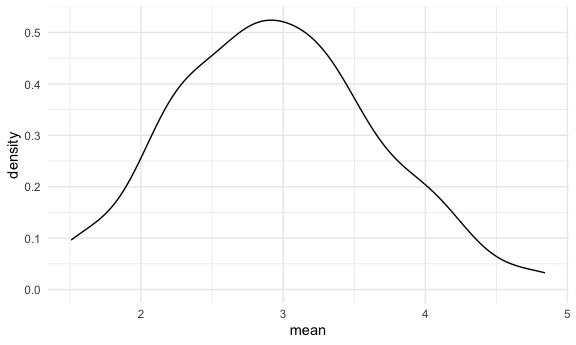
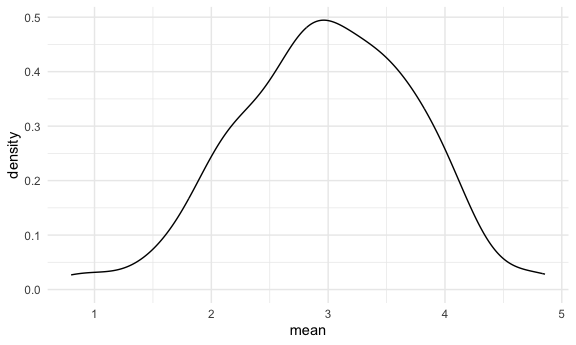
we did simulations!

diff --git a/simulation.md b/simulation.md
@@ -31,7 +31,7 @@ sim_mean_sd(30)
     ## # A tibble: 1 × 2
     ##    mean    sd
     ##   <dbl> <dbl>
-    ## 1  2.26  4.36
+    ## 1  3.33  3.70
 
 ## Let’s simulate a lot
 
@@ -52,16 +52,16 @@ bind_rows(output)
     ## # A tibble: 100 × 2
     ##     mean    sd
     ##    <dbl> <dbl>
-    ##  1  4.22  3.03
-    ##  2  2.56  3.73
-    ##  3  3.51  3.44
-    ##  4  4.01  4.31
-    ##  5  3.07  3.88
-    ##  6  2.41  3.87
-    ##  7  2.03  4.36
-    ##  8  3.53  4.34
-    ##  9  2.30  3.70
-    ## 10  1.79  3.90
+    ##  1  3.53  3.18
+    ##  2  3.44  3.84
+    ##  3  3.45  3.53
+    ##  4  1.68  3.69
+    ##  5  3.95  4.22
+    ##  6  3.27  4.34
+    ##  7  2.05  4.05
+    ##  8  3.10  3.72
+    ##  9  3.55  4.11
+    ## 10  3.87  3.79
     ## # ℹ 90 more rows
 
 Let’s use a loop function.
@@ -103,7 +103,7 @@ sim_results %>%
     ## # A tibble: 1 × 2
     ##   avg_samp_mean sd_samp_mean
     ##           <dbl>        <dbl>
-    ## 1          2.95        0.712
+    ## 1          2.98        0.756
 
 ``` r
 sim_results %>% 
@@ -111,3 +111,122 @@ sim_results %>%
 ```
 
 <img src="simulation_files/figure-gfm/unnamed-chunk-5-2.png" alt="" width="90%" />
+
+## Let’s try other sample sizes.
+
+``` r
+n_list = 
+  list(
+    "n = 30" = 30,
+    "n = 60" = 30,
+    "n = 120" = 30,
+    "n = 240" = 30
+  )
+
+output = vector("list", length = 4)
+
+output[[1]] = rerun(100, sim_mean_sd(samp_size = n_list[[1]])) %>% bind_rows()
+```
+
+    ## Warning: `rerun()` was deprecated in purrr 1.0.0.
+    ## ℹ Please use `map()` instead.
+    ##   # Previously
+    ##   rerun(100, sim_mean_sd(samp_size = n_list[[1]]))
+    ## 
+    ##   # Now
+    ##   map(1:100, ~ sim_mean_sd(samp_size = n_list[[1]]))
+    ## This warning is displayed once per session.
+    ## Call `lifecycle::last_lifecycle_warnings()` to see where this warning was
+    ## generated.
+
+``` r
+output[[2]] = rerun(100, sim_mean_sd(samp_size = n_list[[2]])) %>% bind_rows()
+```
+
+    ## Warning: `rerun()` was deprecated in purrr 1.0.0.
+    ## ℹ Please use `map()` instead.
+    ##   # Previously
+    ##   rerun(100, sim_mean_sd(samp_size = n_list[[2]]))
+    ## 
+    ##   # Now
+    ##   map(1:100, ~ sim_mean_sd(samp_size = n_list[[2]]))
+    ## This warning is displayed once per session.
+    ## Call `lifecycle::last_lifecycle_warnings()` to see where this warning was
+    ## generated.
+
+``` r
+for(i in 1:4) {
+  
+  output[[i]] = 
+    rerun(100, sim_mean_sd(samp_size = n_list[[i]])) %>% 
+    bind_rows()
+  
+}
+```
+
+    ## Warning: `rerun()` was deprecated in purrr 1.0.0.
+    ## ℹ Please use `map()` instead.
+    ##   # Previously
+    ##   rerun(100, sim_mean_sd(samp_size = n_list[[i]]))
+    ## 
+    ##   # Now
+    ##   map(1:100, ~ sim_mean_sd(samp_size = n_list[[i]]))
+    ## This warning is displayed once per session.
+    ## Call `lifecycle::last_lifecycle_warnings()` to see where this warning was
+    ## generated.
+
+``` r
+sim_results = 
+  tibble(
+   sample_size = c(30, 60, 120, 240)
+) %>% 
+  mutate(
+    output_lists = map(.x = sample_size, ~ rerun(1000, sim_mean_sd(.x))),
+    estimate_df =  map(output_lists, bind_rows)
+  ) %>% 
+  select(-output_lists) %>% 
+  unnest(estimate_df)
+```
+
+    ## Warning: There was 1 warning in `mutate()`.
+    ## ℹ In argument: `output_lists = map(.x = sample_size, ~rerun(1000,
+    ##   sim_mean_sd(.x)))`.
+    ## Caused by warning:
+    ## ! `rerun()` was deprecated in purrr 1.0.0.
+    ## ℹ Please use `map()` instead.
+    ##   # Previously
+    ##   rerun(1000, sim_mean_sd(.x))
+    ## 
+    ##   # Now
+    ##   map(1:1000, ~ sim_mean_sd(.x))
+
+Do some data fram things.
+
+``` r
+sim_results %>% 
+  mutate(
+    sample_size = str_c("n = ", sample_size),
+    sample_size = fct_inorder(sample_size)
+  ) %>% 
+  ggplot(aes(x = sample_size, y = mean)) + 
+  geom_violin()
+```
+
+<img src="simulation_files/figure-gfm/unnamed-chunk-8-1.png" alt="" width="90%" />
+
+``` r
+sim_results %>% 
+  group_by(sample_size) %>% 
+  summarize(
+    avg_samp_mean = mean(mean),
+    sd_samp_mean = sd(mean)
+  )
+```
+
+    ## # A tibble: 4 × 3
+    ##   sample_size avg_samp_mean sd_samp_mean
+    ##         <dbl>         <dbl>        <dbl>
+    ## 1          30          2.97        0.757
+    ## 2          60          3.01        0.514
+    ## 3         120          3.00        0.373
+    ## 4         240          3.00        0.264
